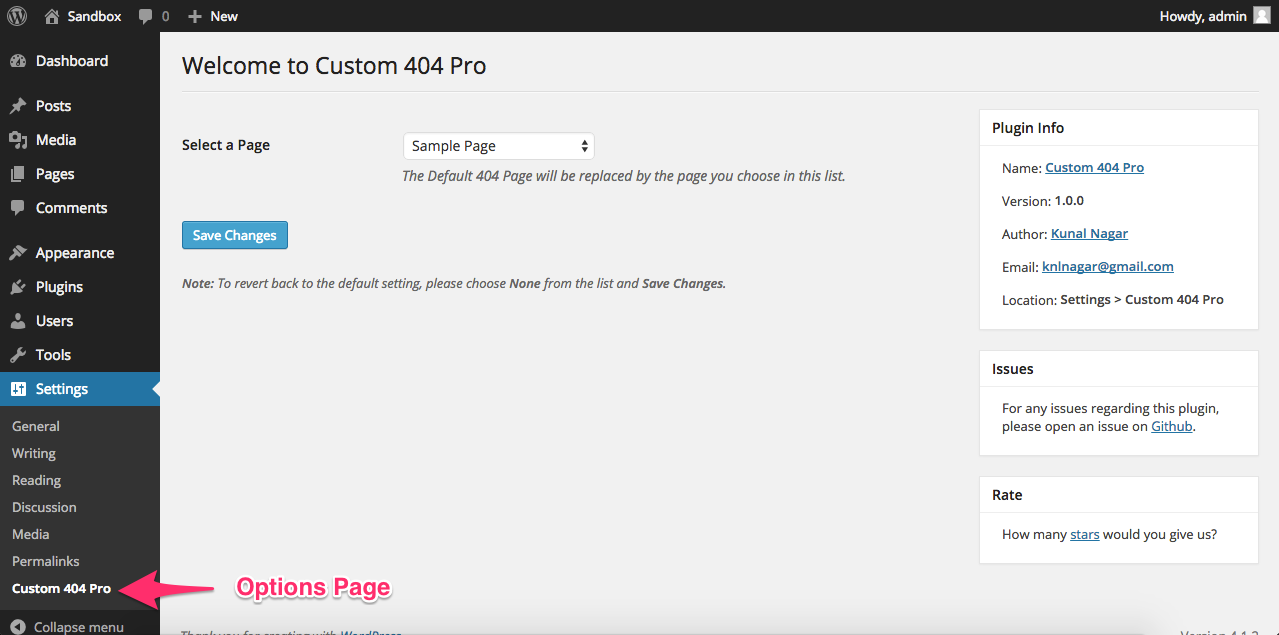
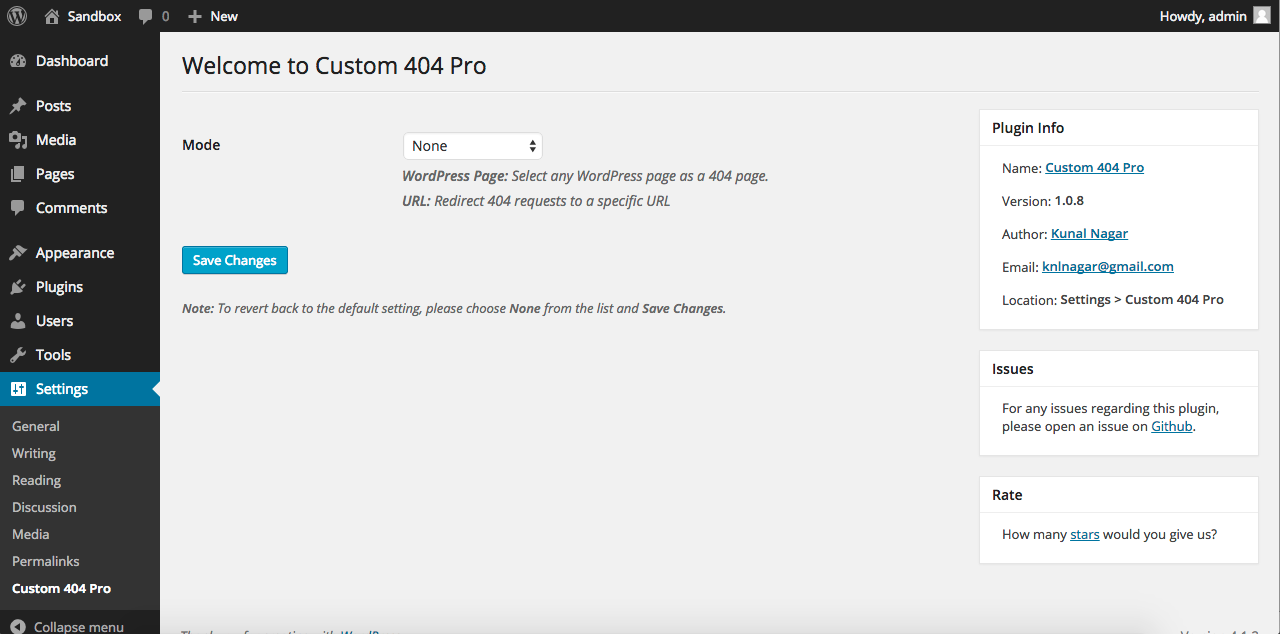
updated screenshot with mode, better readme

diff --git a/custom-404-pro.php b/custom-404-pro.php
@@ -4,7 +4,7 @@
 Plugin Name: Custom 404 Pro
 Plugin URI: https://wordpress.org/plugins/custom-404-pro/
 Description: Override the default 404 page with any page from the Admin Panel.
-Version: 1.0.7
+Version: 1.0.8
 Author: Kunal Nagar
 Author URI: http://kunalnagar.in
 License: GPL-2.0+

diff --git a/README.md b/README.md
@@ -2,6 +2,8 @@
 
 ![Banner](assets/banner-772x250.png "Banner")
 
+Override the default 404 page with **any page** from the Admin Panel or a **Custom URL**.
+
 ### Installation
 
 * Extract the downloaded ZIP file.
